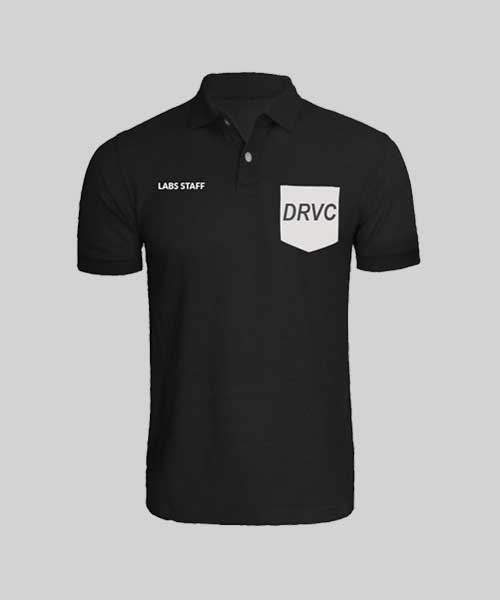
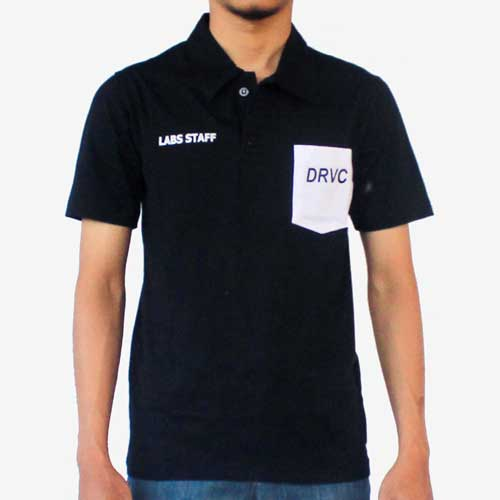
upload manual produk n manual slider

diff --git a/skin/front/css/app.css b/skin/front/css/app.css
@@ -157,6 +157,23 @@ a:hover,a:focus {
   color: #cfa115;
 }
 
+/*produk*/
+.produk-image-active, .produk-image-hover {
+  width: 100%;
+   transition: opacity .5s linear;
+   -moz-transition: opacity .5s linear;
+   -webkit-transition: opacity .5s linear;
+}
+.row.produk .produk-image-hover {
+  display: none;
+}
+.row.produk:hover .produk-image-hover, .row.produk:focus .produk-image-hover {
+  display: block;
+}
+.row.produk:hover .produk-image-active, .row.produk:focus .produk-image-active {
+  display: none;
+}
+
 /*
 brown color
 */

diff --git a/app/view/front/page/html/products.php b/app/view/front/page/html/products.php
@@ -1,14 +1,14 @@
-
 <div class="row" data-equalizer="produk">
   <!--produk list -->
-  <div class="large-3 medium-4 small-6 columns produk" >
+  <div class="large-3 medium-4 small-6 columns produk">
     <div class="row produk brown" >
       <div class="columns ">
-        <img src="<?=base_url()?>media/products/tie-doctor.jpg" />
+        <img src="<?=base_url()?>media/products/water-law.jpg" class="produk-image-active" />
+        <img src="<?=base_url()?>media/products/water-law-3.jpg" class="produk-image-hover" />
       </div>
       <div class="columns" data-equalizer-watch="produk">
         <h1 class="produk-title">
-          Casual Tie
+          Water Law
         </h1>
         <p class="produk-price">
           Rp. 100.000
@@ -21,10 +21,95 @@
   </div>
   <!--produk list -->
   <!--produk list -->
-  <div class="large-3 medium-4 small-6 columns produk" >
+  <div class="large-3 medium-4 small-6 columns produk end">
     <div class="row produk brown" >
       <div class="columns ">
-        <img src="<?=base_url()?>media/products/labs-staff.jpg" />
+        <img src="<?=base_url()?>media/products/chopper-pink.jpg" class="produk-image-active" />
+        <img src="<?=base_url()?>media/products/chopper-pink-3.jpg" class="produk-image-hover" />
+      </div>
+      <div class="columns" data-equalizer-watch="produk">
+        <h1 class="produk-title">
+          Chopper Pink
+        </h1>
+        <p class="produk-price">
+          Rp. 100.000
+        </p>
+      </div>
+      <div class="large-offset-2 large-8 medium-offset-1 medium-10 columns end">
+        <a href="#" class="button expanded tiny">LIHAT</a>
+      </div>
+    </div>
+  </div>
+  <!--produk list -->
+  <!--produk list -->
+  <div class="large-3 medium-4 small-6 columns produk">
+    <div class="row produk brown" >
+      <div class="columns ">
+        <img src="<?=base_url()?>media/products/chopper-bike.jpg" class="produk-image-active" />
+        <img src="<?=base_url()?>media/products/chopper-bike-3.jpg" class="produk-image-hover" />
+      </div>
+      <div class="columns" data-equalizer-watch="produk">
+        <h1 class="produk-title">
+          Chopper Bike
+        </h1>
+        <p class="produk-price">
+          Rp. 100.000
+        </p>
+      </div>
+      <div class="large-offset-2 large-8 medium-offset-1 medium-10 columns end">
+        <a href="#" class="button expanded tiny">LIHAT</a>
+      </div>
+    </div>
+  </div>
+  <!--produk list -->
+  <!--produk list -->
+  <div class="large-3 medium-4 small-6 columns produk">
+    <div class="row produk brown" >
+      <div class="columns ">
+        <img src="<?=base_url()?>media/products/chopper-dr.jpg" class="produk-image-active" />
+        <img src="<?=base_url()?>media/products/chopper-dr-3.jpg" class="produk-image-hover" />
+      </div>
+      <div class="columns" data-equalizer-watch="produk">
+        <h1 class="produk-title">
+          Chopper Doctor
+        </h1>
+        <p class="produk-price">
+          Rp. 100.000
+        </p>
+      </div>
+      <div class="large-offset-2 large-8 medium-offset-1 medium-10 columns end">
+        <a href="#" class="button expanded tiny">LIHAT</a>
+      </div>
+    </div>
+  </div>
+  <!--produk list -->
+  <!--produk list -->
+  <div class="large-3 medium-4 small-6 columns produk end">
+    <div class="row produk brown" >
+      <div class="columns ">
+        <img src="<?=base_url()?>media/products/labs-crew.jpg" class="produk-image-active" />
+        <img src="<?=base_url()?>media/products/labs-crew-3.jpg" class="produk-image-hover" />
+      </div>
+      <div class="columns" data-equalizer-watch="produk">
+        <h1 class="produk-title">
+          Labs Crew
+        </h1>
+        <p class="produk-price">
+          Rp. 100.000
+        </p>
+      </div>
+      <div class="large-offset-2 large-8 medium-offset-1 medium-10 columns end">
+        <a href="#" class="button expanded tiny">LIHAT</a>
+      </div>
+    </div>
+  </div>
+  <!--produk list -->
+  <!--produk list -->
+  <div class="large-3 medium-4 small-6 columns produk end">
+    <div class="row produk brown" >
+      <div class="columns ">
+        <img src="<?=base_url()?>media/products/labs-staff.jpg" class="produk-image-active" />
+        <img src="<?=base_url()?>media/products/labs-staff-3.jpg" class="produk-image-hover" />
       </div>
       <div class="columns" data-equalizer-watch="produk">
         <h1 class="produk-title">
@@ -41,14 +126,15 @@
   </div>
   <!--produk list -->
   <!--produk list -->
-  <div class="large-3 medium-4 small-6 columns produk">
+  <div class="large-3 medium-4 small-6 columns produk" >
     <div class="row produk brown" >
       <div class="columns ">
-        <img src="<?=base_url()?>media/products/casual.jpg" />
+        <img src="<?=base_url()?>media/products/dasi.jpg" class="produk-image-active" />
+        <img src="<?=base_url()?>media/products/dasi-3.jpg" class="produk-image-hover" />
       </div>
       <div class="columns" data-equalizer-watch="produk">
         <h1 class="produk-title">
-          Casual Tees
+          Dr Tie
         </h1>
         <p class="produk-price">
           Rp. 100.000
@@ -61,14 +147,36 @@
   </div>
   <!--produk list -->
   <!--produk list -->
-  <div class="large-3 medium-4 small-6 columns produk">
+  <div class="large-3 medium-4 small-6 columns produk" >
     <div class="row produk brown" >
       <div class="columns ">
-        <img src="<?=base_url()?>media/products/chopper-bike.jpg" />
+        <img src="<?=base_url()?>media/products/keep-calm.jpg" class="produk-image-active" />
+        <img src="<?=base_url()?>media/products/keep-calm-3.jpg" class="produk-image-hover" />
       </div>
       <div class="columns" data-equalizer-watch="produk">
         <h1 class="produk-title">
-          Chopper Bike
+          Keep Calm
+        </h1>
+        <p class="produk-price">
+          Rp. 100.000
+        </p>
+      </div>
+      <div class="large-offset-2 large-8 medium-offset-1 medium-10 columns end">
+        <a href="#" class="button expanded tiny">LIHAT</a>
+      </div>
+    </div>
+  </div>
+  <!--produk list -->
+  <!--produk list -->
+  <div class="large-3 medium-4 small-6 columns produk end">
+    <div class="row produk brown" >
+      <div class="columns ">
+        <img src="<?=base_url()?>media/products/stetoskop.jpg" class="produk-image-active" />
+        <img src="<?=base_url()?>media/products/stetoskop-3.jpg" class="produk-image-hover" />
+      </div>
+      <div class="columns" data-equalizer-watch="produk">
+        <h1 class="produk-title">
+          Stethoscope
         </h1>
         <p class="produk-price">
           Rp. 100.000

diff --git a/app/view/front/page/html/sliders.php b/app/view/front/page/html/sliders.php
@@ -1,8 +1,17 @@
 <div class="row" style="margin-top: 0.5em;">
   <div class="large-12 columns">
-    <ul class="orbit-container">
+    <ul class="orbit-container" data-orbit>
       <li class="orbit-slide is-active">
-        <img class="orbit-image" src="<?=base_url()?>media/sliders/banner-001.jpg" alt="Space">
+        <img class="orbit-image" src="<?=base_url()?>media/sliders/banner-001.jpg" alt="Dr Vice">
+      </li>
+      <li class="orbit-slide">
+        <img class="orbit-image" src="<?=base_url()?>media/sliders/banner-002.jpg" alt="Collection">
+      </li>
+      <li class="orbit-slide">
+        <img class="orbit-image" src="<?=base_url()?>media/sliders/banner-003.jpg" alt="Casual">
+      </li>
+      <li class="orbit-slide">
+        <img class="orbit-image" src="<?=base_url()?>media/sliders/banner-004.jpg" alt="Semi Formal">
       </li>
     </ul>
   </div>
